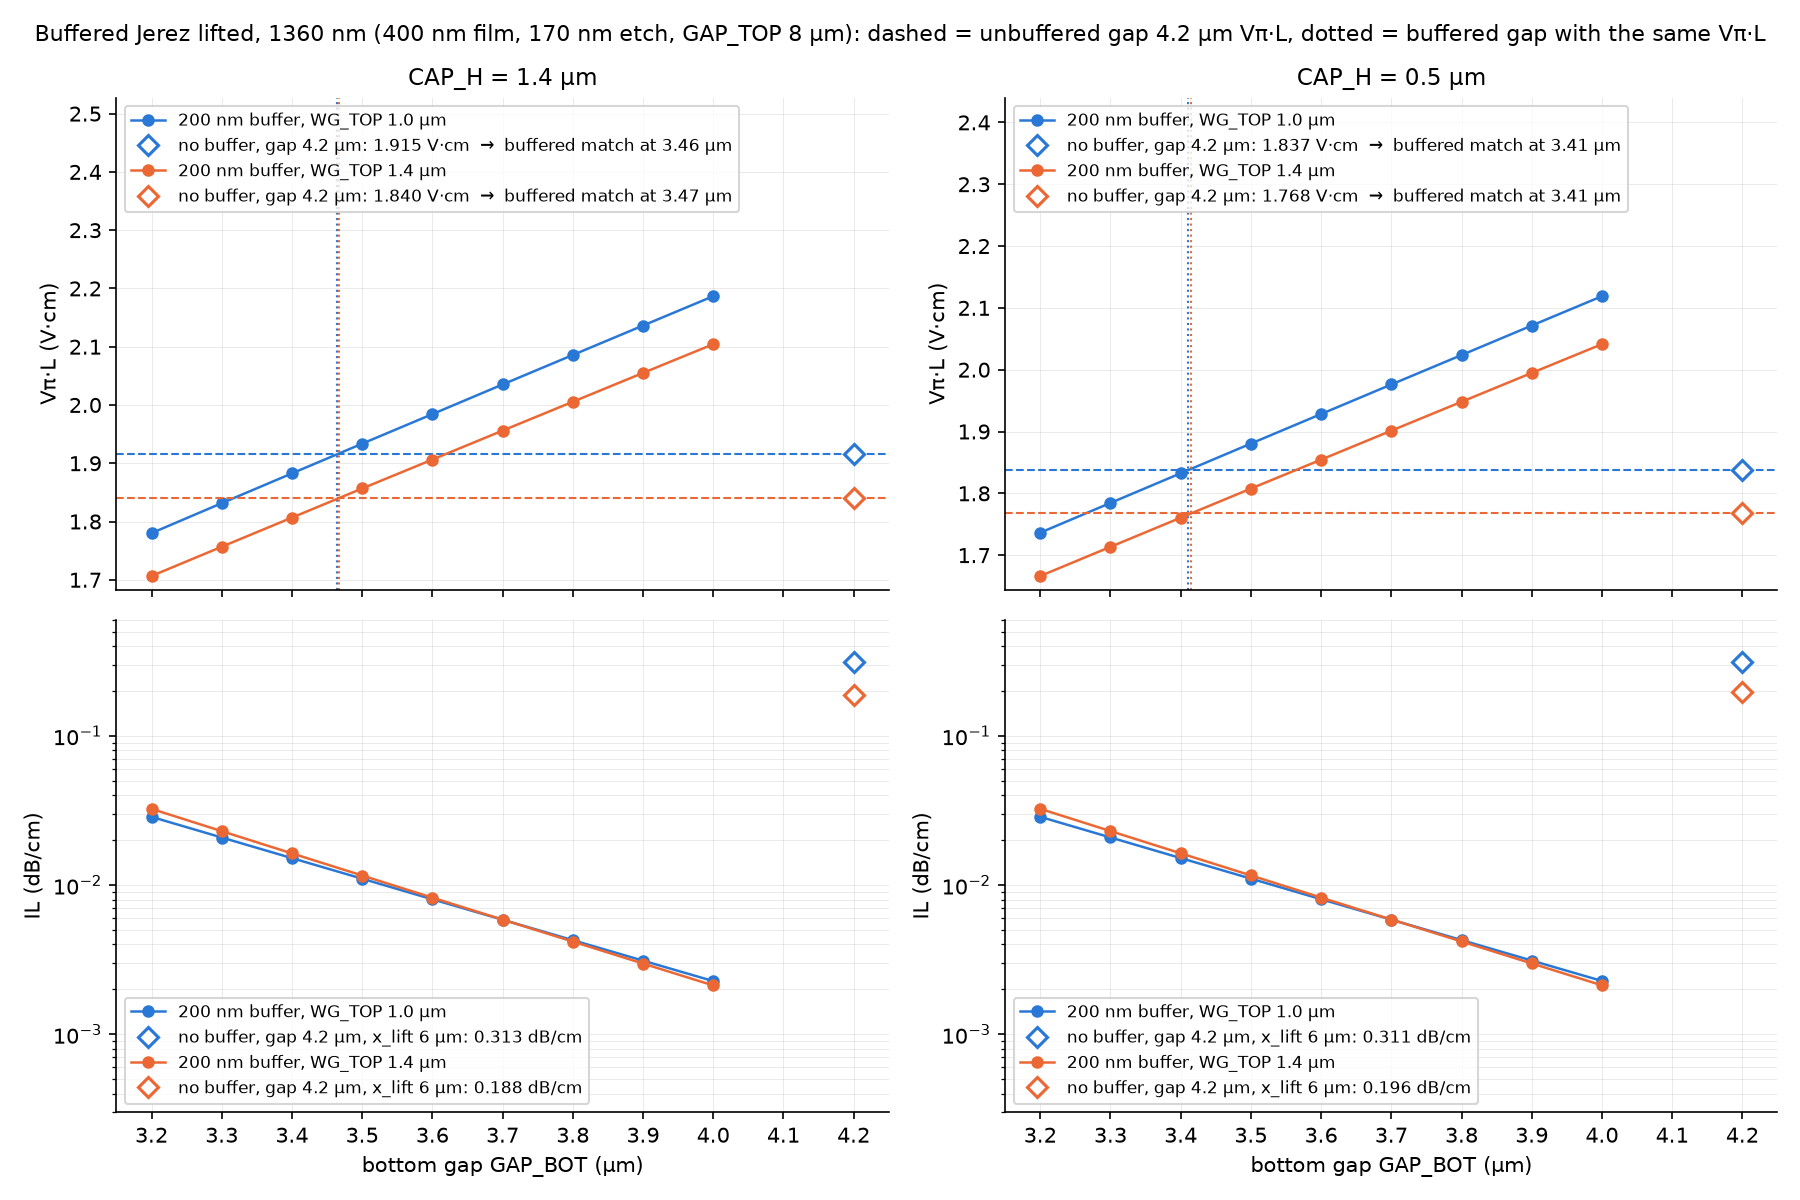
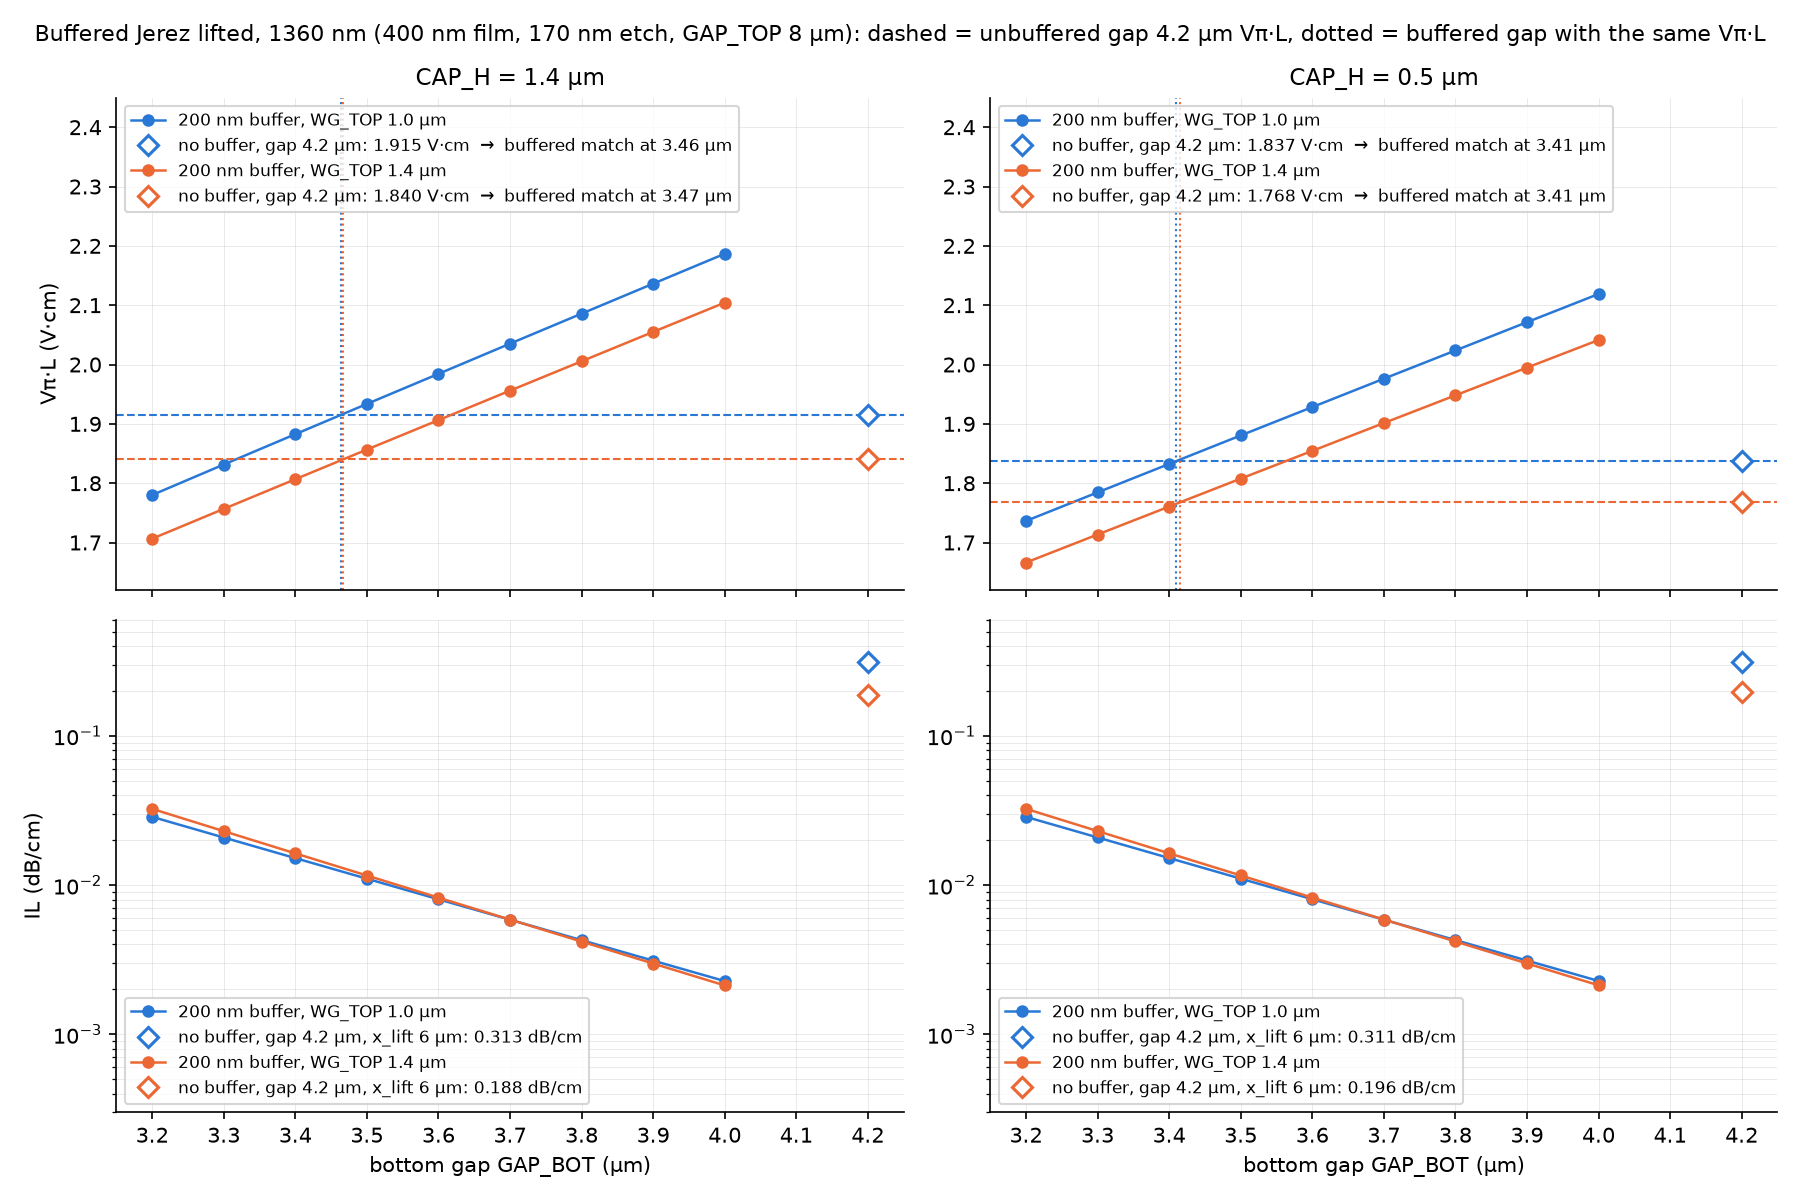
Jerez gap sweep plot: common vertical axes for the two CAP_H panels
Claude-Session: https://claude.ai/code/session_01EHQDy7yrZwCZyHELu6KFb3

diff --git a/results/jerez_gap/analysis.py b/results/jerez_gap/analysis.py
@@ -24,7 +24,7 @@ with open(OUT + "jerez_gap_sweep.csv", "w") as f:
                 f"{v['IL']:.5f},{v['VpiL']:.4f},{v['tri']}\n")
 
 summary = {}
-fig, axs = plt.subplots(2, 2, figsize=(12, 8), sharex=True)
+fig, axs = plt.subplots(2, 2, figsize=(12, 8), sharex=True, sharey="row")
 for j, cap in enumerate(("1.4", "0.5")):
     av, ai = axs[0, j], axs[1, j]
     for w in ("1.0", "1.4"):
@@ -56,13 +56,16 @@ for j, cap in enumerate(("1.4", "0.5")):
                      matching_gap_um=round(gm, 3), extrapolated=extrap,
                      buffered_IL_at_matching_gap=round(ilm, 5) if ilm else None)
         summary[f"CAP_H {cap} / WG_TOP {w}"] = s
-    lo_, hi_ = av.get_ylim(); av.set_ylim(lo_, hi_ + 0.6 * (hi_ - lo_))
+    av.set_ylim(1.62, 2.45)
     ai.set_yscale("log"); ai.set_ylim(3e-4, 0.6)
     av.set_title(f"CAP_H = {cap} µm", fontsize=11)
-    av.set_ylabel("Vπ·L (V·cm)"); ai.set_ylabel("IL (dB/cm)"); ai.set_yscale("log")
+    if j == 0:
+        av.set_ylabel("Vπ·L (V·cm)"); ai.set_ylabel("IL (dB/cm)")
+    ai.set_yscale("log")
     ai.set_xlabel("bottom gap GAP_BOT (µm)")
     for a, loc in ((av, "upper left"), (ai, "lower left")):
         a.grid(alpha=0.3, which="both", lw=0.4); a.legend(fontsize=8, loc=loc)
+        a.tick_params(labelleft=True)
     ai.set_xticks(np.round(np.arange(3.2, 4.21, 0.1), 1))
 fig.suptitle("Buffered Jerez lifted, 1360 nm (400 nm film, 170 nm etch, GAP_TOP 8 µm): "
              "dashed = unbuffered gap 4.2 µm Vπ·L, dotted = buffered gap with the same Vπ·L", fontsize=10.5)
